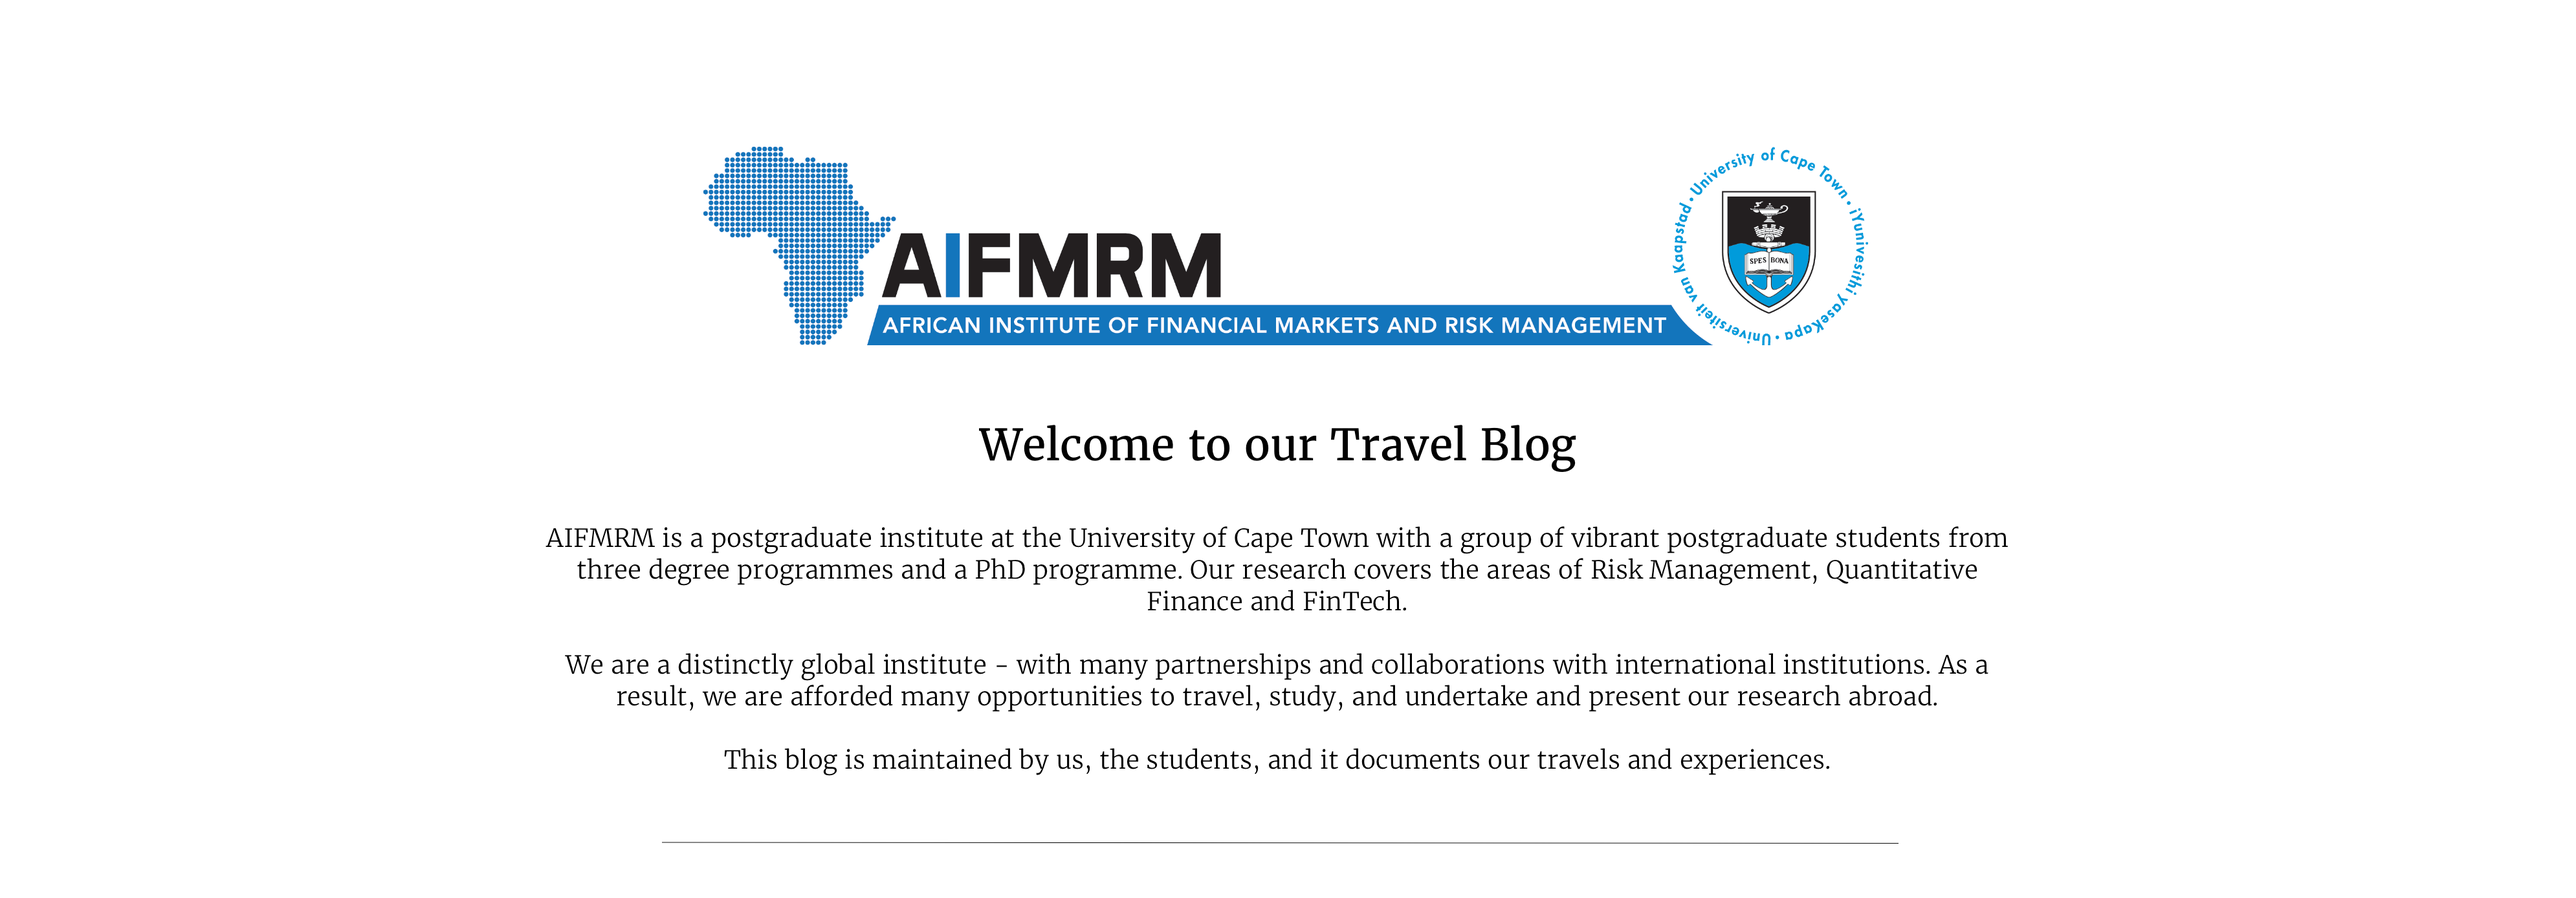
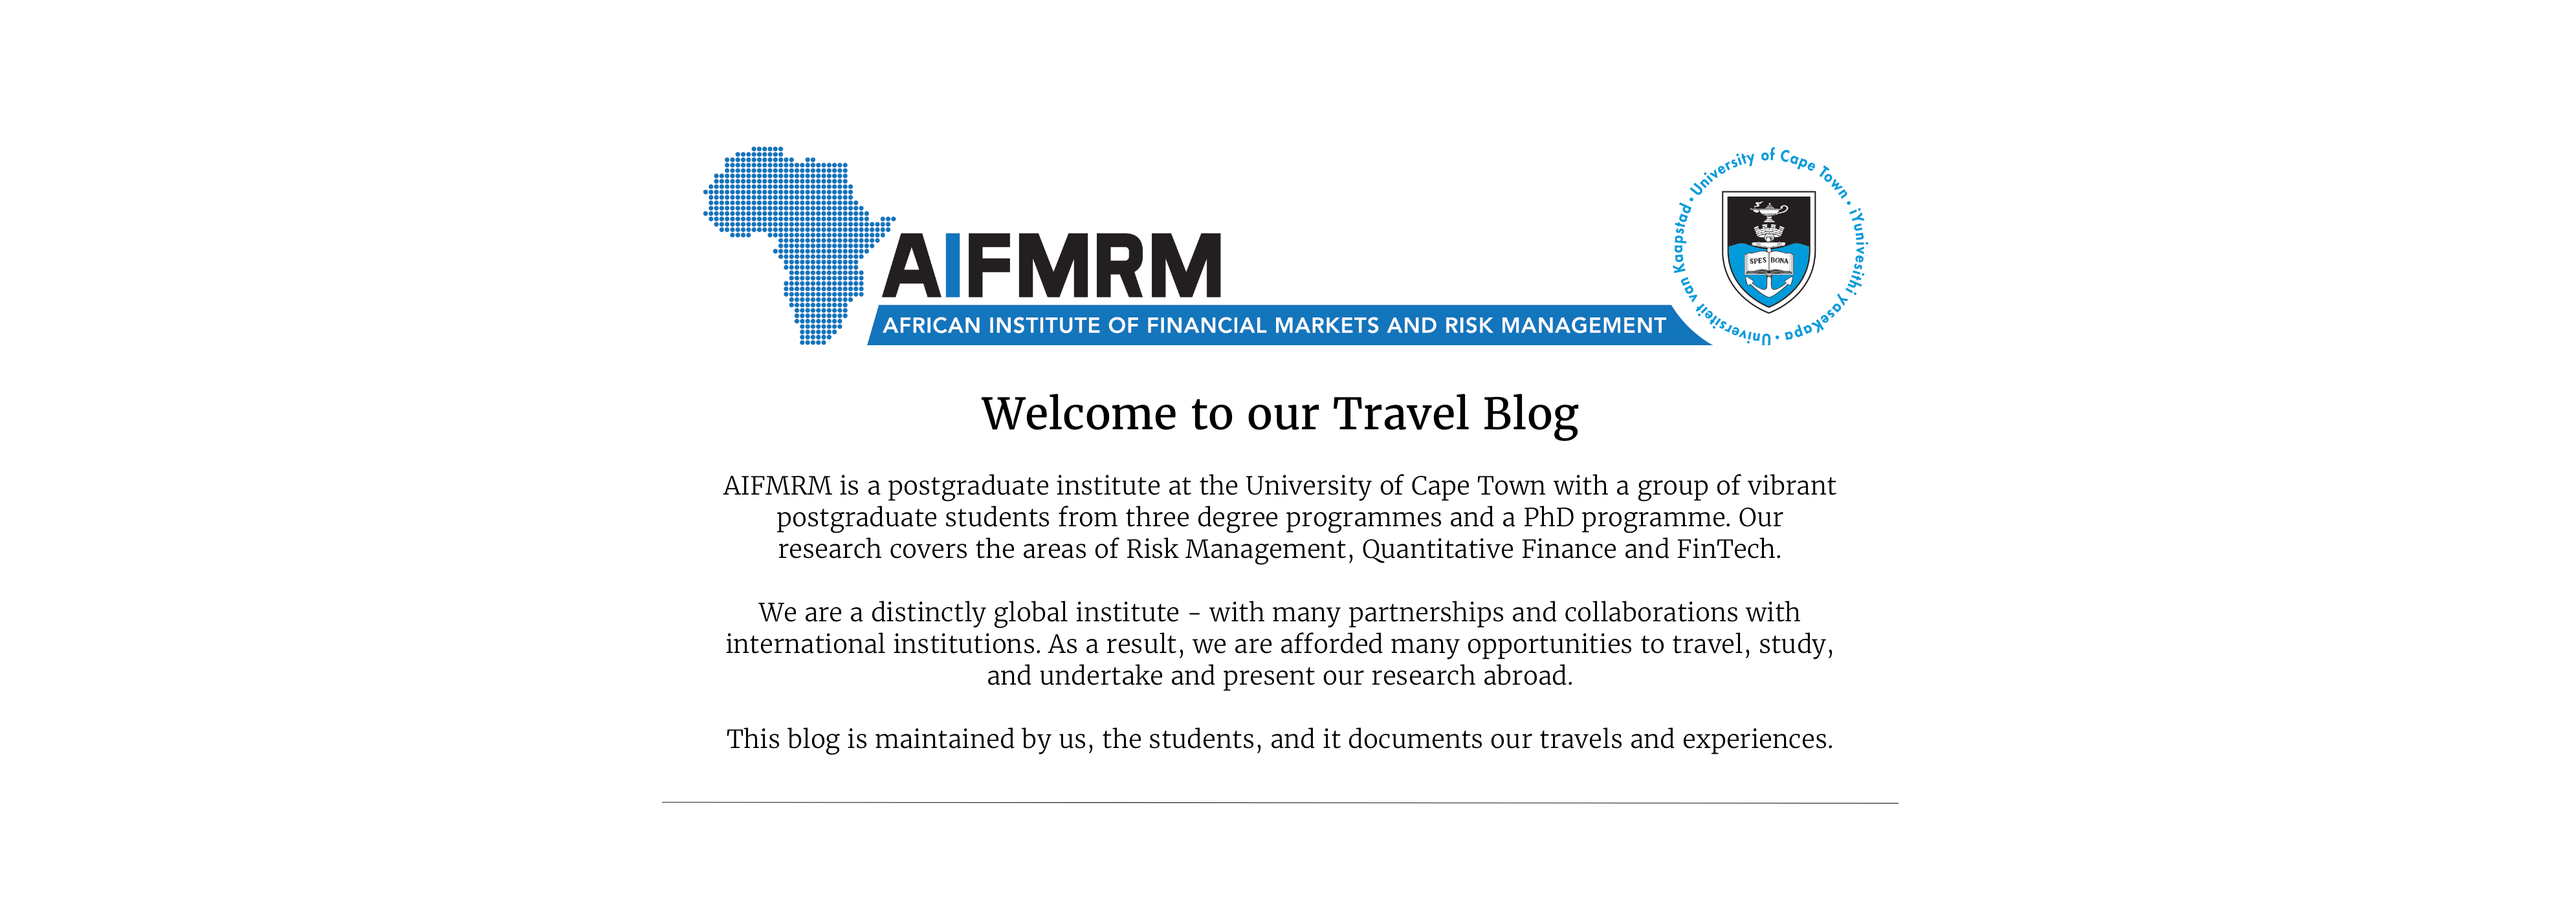
new header v4

Changed region(s): [[0.218, 0.4334, 0.7787, 0.8668]]

diff --git a/post/index.html b/post/index.html
@@ -7,7 +7,7 @@
 
     
     <meta name="twitter:card" content="summary"/>
-    <meta name="twitter:image" content="/images/aifmrm_final1.png"/>
+    <meta name="twitter:image" content="/images/aifmrm_final2.png"/>
 
 
 
@@ -23,7 +23,7 @@
 
     
         
-            <meta property="og:image" content="/images/aifmrm_final1.png"/>
+            <meta property="og:image" content="/images/aifmrm_final2.png"/>
         
     
 
@@ -141,7 +141,7 @@
 
 
 	 
-  <header class="main-header tag-head" style="background-image: url(/images/aifmrm_final1.png)">
+  <header class="main-header tag-head" style="background-image: url(/images/aifmrm_final2.png)">
   
 
     <nav class="main-nav overlay clearfix">

diff --git a/404.html b/404.html
@@ -7,7 +7,7 @@
 
     
     <meta name="twitter:card" content="summary"/>
-    <meta name="twitter:image" content="/images/aifmrm_final1.png"/>
+    <meta name="twitter:image" content="/images/aifmrm_final2.png"/>
 
 
 
@@ -23,7 +23,7 @@
 
     
         
-            <meta property="og:image" content="/images/aifmrm_final1.png"/>
+            <meta property="og:image" content="/images/aifmrm_final2.png"/>
         
     
 
@@ -139,7 +139,7 @@
 
 
 
-<header class="main-header " style="background-image: url(/images/aifmrm_final1.png)">
+<header class="main-header " style="background-image: url(/images/aifmrm_final2.png)">
 
 
 <nav class="main-nav overlay clearfix">

diff --git a/index.html b/index.html
@@ -7,7 +7,7 @@
 
     
     <meta name="twitter:card" content="summary"/>
-    <meta name="twitter:image" content="/images/aifmrm_final1.png"/>
+    <meta name="twitter:image" content="/images/aifmrm_final2.png"/>
 
 
 
@@ -23,7 +23,7 @@
 
     
         
-            <meta property="og:image" content="/images/aifmrm_final1.png"/>
+            <meta property="og:image" content="/images/aifmrm_final2.png"/>
         
     
 
@@ -138,7 +138,7 @@
 
 
 
-  <header class="main-header" style="background-image: url(/images/aifmrm_final1.png)">
+  <header class="main-header" style="background-image: url(/images/aifmrm_final2.png)">
   
 
 
